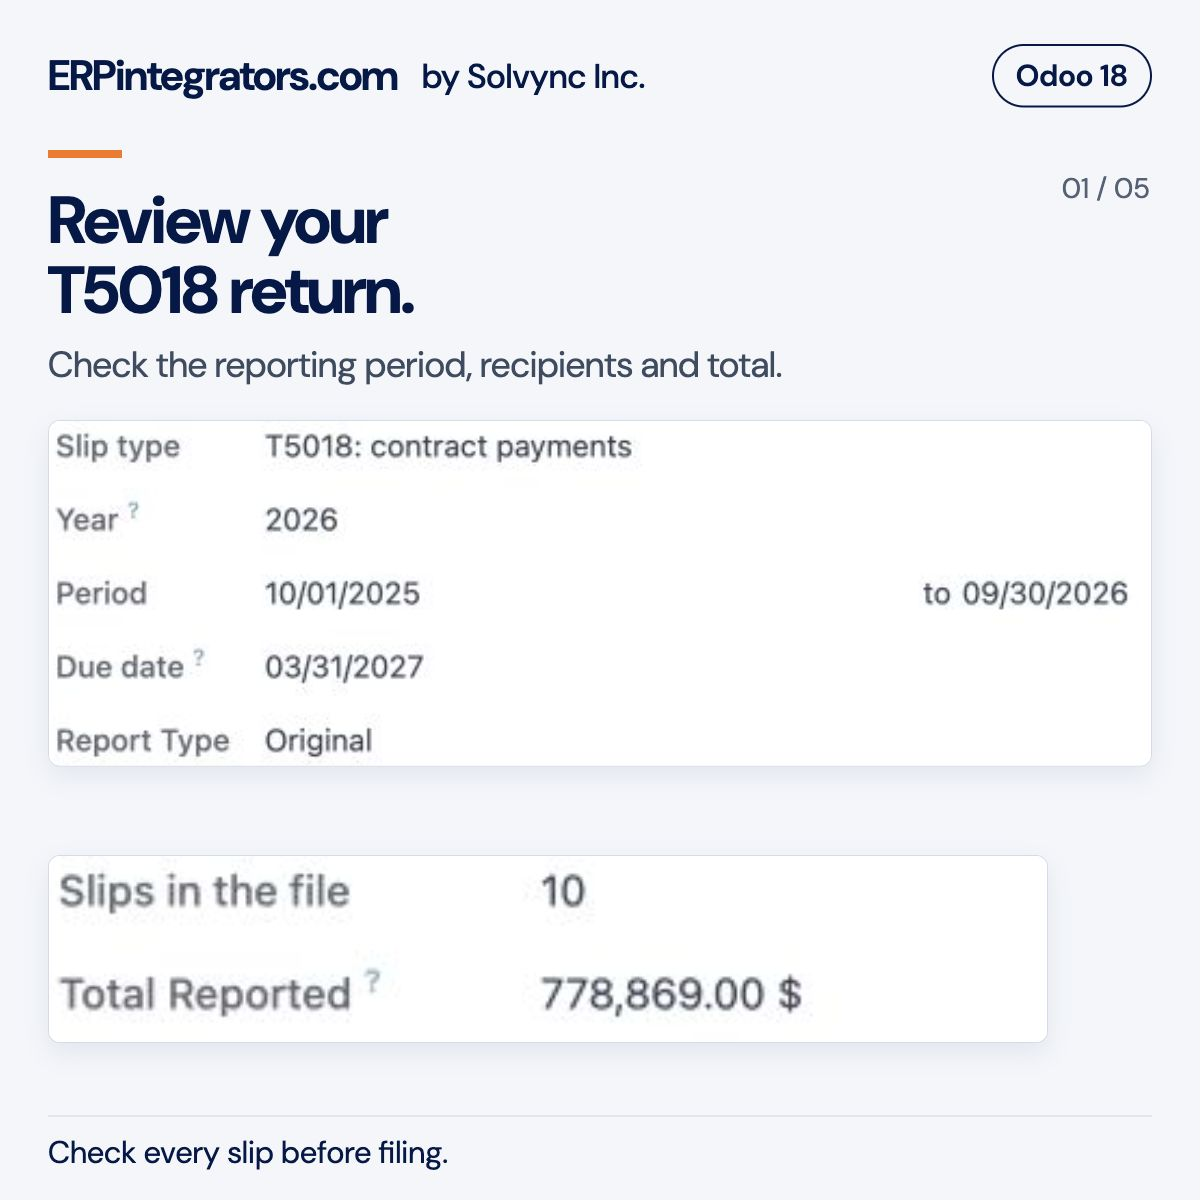
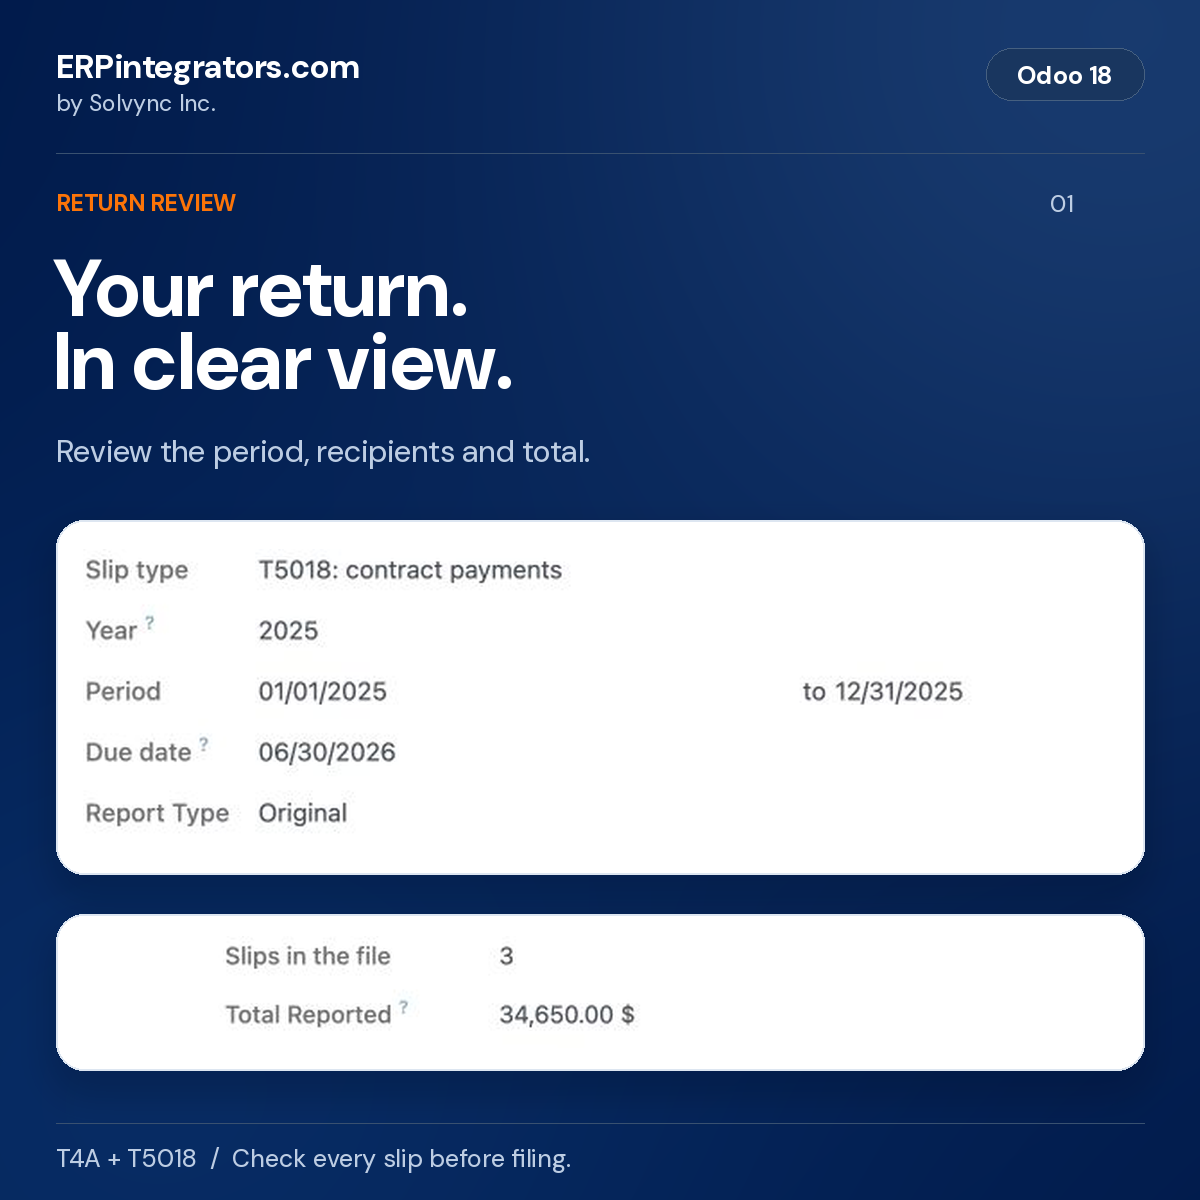
Publish modern workflow cards and version-specific walkthrough

diff --git a/l10n_ca_contractor_slips/static/description/index.html b/l10n_ca_contractor_slips/static/description/index.html
@@ -2,7 +2,7 @@
 <h1 itemprop="name" id="t4a-and-t5018-slips">T4A and T5018 Slips</h1>
 <section class="mb-4">
 <h2>Release details</h2>
-<p>Version <span itemprop="softwareVersion">18.0.1.3</span>, stable release.</p>
+<p>Version <span itemprop="softwareVersion">18.0.1.4</span>, stable release.</p>
 <p itemprop="softwareRequirements">Requires Odoo 18 Community or Enterprise, on Odoo.sh or your own server. Odoo Online is not supported.</p>
 <p><span itemprop="offers" itemscope="" itemtype="https://schema.org/Offer">Module price: US$<span itemprop="price">199</span> <span itemprop="priceCurrency">USD</span>.</span> Hosting, Odoo subscriptions and separately agreed services are excluded.</p>
 <p>Published by ERPintegrators.com, by <span itemprop="publisher" itemscope="" itemtype="https://schema.org/Organization"><span itemprop="name">Solvync Inc.</span></span>. Check every slip against your records before filing.</p>
@@ -57,28 +57,38 @@ module downloads CRA's public XML schemas from canada.ca the first time
 you finalize a return.</p>
 <h2 id="review-the-contractor-reporting-workflow">Review the contractor
 reporting workflow</h2>
-<p>These screens show a staged T5018 return in Odoo 18 Enterprise.
-Names, amounts and records are demo data. The module also supports T4A
-box 048. Each image focuses on one part of the workflow; the accounting
-and filing limits below apply to both editions.</p>
+<p>These screens show fictional T5018 records in Odoo 18 Community. The
+closed 2025 calendar return has three slips totalling CAD34,650. The
+example uses the 2026 XML submission format. The accounting and filing
+limits below apply to both Community and Enterprise.</p>
 <div class="row">
 <div class="col-12 col-lg-6 mb-4">
-<img class="img-fluid" width="1200" height="1200" src="screenshots/01-reporting-period.png" alt="T5018 return in Odoo showing the reporting period, ten slips and a total reported of 778,869 Canadian dollars" />
+<img class="img-fluid" width="1200" height="1200" src="screenshots/01-reporting-period.png" alt="T5018 return in Odoo 18 showing the closed 2025 calendar period, three slips and CAD34,650 reported" />
 </div>
 <div class="col-12 col-lg-6 mb-4">
-<img class="img-fluid" width="1200" height="1200" src="screenshots/02-reported-amount.png" alt="A contractor's T5018 slip showing 186,400 dollars before tax and 195,720 dollars reported with tax" />
+<img class="img-fluid" width="1200" height="1200" src="screenshots/02-reported-amount.png" alt="T5018 example: Cedarline Framing Ltd., CAD24,000 before tax and CAD25,200 reported with tax" />
 </div>
 <div class="col-12 col-lg-6 mb-4">
-<img class="img-fluid" width="1200" height="1200" src="screenshots/03-payment-trace.png" alt="The payment trace on an Odoo contractor slip, with four paid dates and the vendor bills each payment settled" />
+<img class="img-fluid" width="1200" height="1200" src="screenshots/03-payment-trace.png" alt="Two dated matched vendor bills supporting Cedarline Framing Ltd. T5018 payments" />
 </div>
 <div class="col-12 col-lg-6 mb-4">
-<img class="img-fluid" width="1200" height="1200" src="screenshots/04-cra-xml.png" alt="A finalized T5018 return with Download CRA file and its generated XML attachment, prepared for the buyer to upload" />
+<img class="img-fluid" width="1200" height="1200" src="screenshots/04-cra-xml.png" alt="Finalized T5018 return with Download CRA file, ready for review and separate upload to CRA" />
 </div>
 <div class="col-12 col-lg-6 mb-4">
-<img class="img-fluid" width="1200" height="1200" src="screenshots/05-recipient-portal.png" alt="The contractor portal listing a T5018 for 2026, the recipient's amount and a PDF download link" />
+<img class="img-fluid" width="1200" height="1200" src="screenshots/05-recipient-portal.png" alt="Recipient portal showing the contractor's own 2025 T5018 slip, CAD25,200 reported and a PDF download" />
 </div>
 </div>
 
+<h3 id="watch-the-workflow-in-odoo-18">Watch the workflow in Odoo
+18</h3>
+<img class="img-fluid" width="720" height="450" src="t4a-t5018-odoo-18-walkthrough.gif" alt="Odoo 18 T5018 walkthrough: calculate three slips, inspect the amount and payment trace, finalize and download the CRA XML file" />
+
+<p>This 16-second walkthrough uses a camera and cursor over reproduced
+Odoo screens. Calculate slips, review the contractor's amount and
+matched bills, finalize, then download the CRA file. Review the file and
+upload it to CRA separately using your own authorized account.
+Downloading the XML does not file the return or establish CRA
+acceptance.</p>
 <h2 id="questions-about-t4a-and-t5018-in-odoo">Questions about T4A and
 T5018 in Odoo</h2>
 <h3 id="which-t4a-slips-does-this-module-prepare">Which T4A slips does

diff --git a/l10n_ca_contractor_slips/__manifest__.py b/l10n_ca_contractor_slips/__manifest__.py
@@ -3,7 +3,7 @@
 {
     "name": "T4A and T5018 Slips",
     "summary": "T4A box 048 and T5018 contractor tax slips for Odoo, with payment traces, CRA XML and recipient PDFs",
-    "version": "18.0.1.3",
+    "version": "18.0.1.4",
     "category": "Accounting/Localizations/Reporting",
     "author": "ERPintegrators.com (Solvync Inc.)",
     "website": "https://erpintegrators.com",

diff --git a/l10n_ca_contractor_slips/readme/SCREENS.md b/l10n_ca_contractor_slips/readme/SCREENS.md
@@ -1,26 +1,35 @@
 ## Review the contractor reporting workflow
 
-These screens show a staged T5018 return in Odoo 18 Enterprise. Names, amounts and records
-are demo data. The module also supports T4A box 048. Each image focuses on one part of the
-workflow; the accounting and filing limits below apply to both editions.
+These screens show fictional T5018 records in Odoo 18 Community. The closed 2025 calendar
+return has three slips totalling CAD34,650. The example uses the 2026 XML submission format.
+The accounting and filing limits below apply to both Community and Enterprise.
 
 <div class="row">
 <div class="col-12 col-lg-6 mb-4">
-<img width="1200" height="1200" src="screenshots/01-reporting-period.png" alt="T5018 return in Odoo showing the reporting period, ten slips and a total reported of 778,869 Canadian dollars" />
+<img width="1200" height="1200" src="screenshots/01-reporting-period.png" alt="T5018 return in Odoo 18 showing the closed 2025 calendar period, three slips and CAD34,650 reported" />
 </div>
 <div class="col-12 col-lg-6 mb-4">
-<img width="1200" height="1200" src="screenshots/02-reported-amount.png" alt="A contractor's T5018 slip showing 186,400 dollars before tax and 195,720 dollars reported with tax" />
+<img width="1200" height="1200" src="screenshots/02-reported-amount.png" alt="T5018 example: Cedarline Framing Ltd., CAD24,000 before tax and CAD25,200 reported with tax" />
 </div>
 <div class="col-12 col-lg-6 mb-4">
-<img width="1200" height="1200" src="screenshots/03-payment-trace.png" alt="The payment trace on an Odoo contractor slip, with four paid dates and the vendor bills each payment settled" />
+<img width="1200" height="1200" src="screenshots/03-payment-trace.png" alt="Two dated matched vendor bills supporting Cedarline Framing Ltd. T5018 payments" />
 </div>
 <div class="col-12 col-lg-6 mb-4">
-<img width="1200" height="1200" src="screenshots/04-cra-xml.png" alt="A finalized T5018 return with Download CRA file and its generated XML attachment, prepared for the buyer to upload" />
+<img width="1200" height="1200" src="screenshots/04-cra-xml.png" alt="Finalized T5018 return with Download CRA file, ready for review and separate upload to CRA" />
 </div>
 <div class="col-12 col-lg-6 mb-4">
-<img width="1200" height="1200" src="screenshots/05-recipient-portal.png" alt="The contractor portal listing a T5018 for 2026, the recipient's amount and a PDF download link" />
+<img width="1200" height="1200" src="screenshots/05-recipient-portal.png" alt="Recipient portal showing the contractor's own 2025 T5018 slip, CAD25,200 reported and a PDF download" />
 </div>
 </div>
+
+### Watch the workflow in Odoo 18
+
+<img width="720" height="450" src="t4a-t5018-odoo-18-walkthrough.gif" alt="Odoo 18 T5018 walkthrough: calculate three slips, inspect the amount and payment trace, finalize and download the CRA XML file" />
+
+This 16-second walkthrough uses a camera and cursor over reproduced Odoo screens. Calculate
+slips, review the contractor's amount and matched bills, finalize, then download the CRA file.
+Review the file and upload it to CRA separately using your own authorized account. Downloading
+the XML does not file the return or establish CRA acceptance.
 
 ## Questions about T4A and T5018 in Odoo
 
